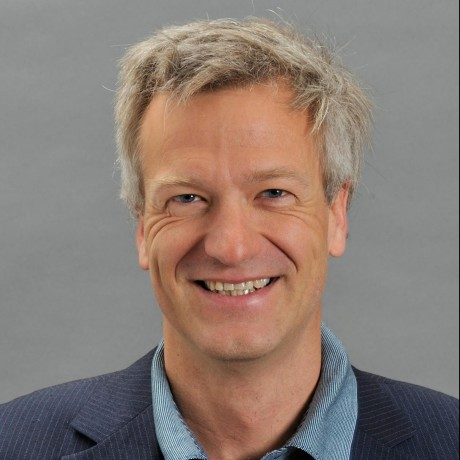
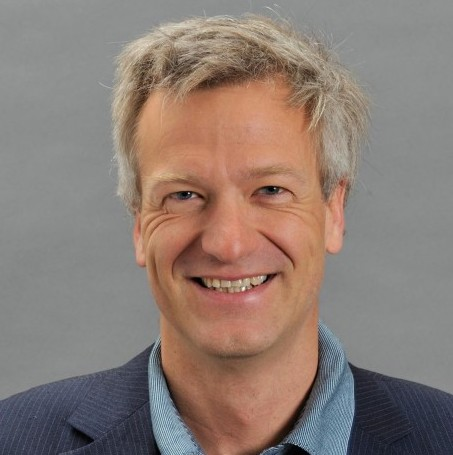
gave profile pics rounded borders; fixed highlight opacity

diff --git a/source/stylesheets/extra.css b/source/stylesheets/extra.css
@@ -80,7 +80,7 @@ a { transition: all 1s ease-in-out; }
 .md-content a { text-decoration: underline; }
 .md-content a:hover, .md-content a:focus { text-decoration: none; }
 a:hover { transition: all 0.5s;}
-.md-typeset hr { margin: 1em 0 !important; }
+.md-typeset hr { margin: 1em 0 !important; clear: both;}
 h1, h2, h3, h4, h5 {
   font-family: freight-sans-pro, sans-serif;
 }
@@ -235,7 +235,7 @@ h1 {
 }
 /*block for highlighting content or CTA*/
 .highlight {
-  background-color: hsla(67, 69%, 51%, 0.25);
+  background-color: hsla(67, 69%, 51%, 0.05);
   /* background-color: var(--md-accent-fg-color); */
   border: 2px solid var(--md-accent-fg-color);
   border-radius: 6px;
@@ -420,6 +420,8 @@ h1 {
   max-width: 150px !important;
   margin-right: 1em;
   margin-bottom: 1em;
+  border: 5px solid #c3bfba;
+  border-radius: 10px; 
   clear: both;
 }
 

diff --git a/source/presenters.md b/source/presenters.md
@@ -8,31 +8,25 @@ We are very pleased to be working with the following key participants to bring t
 <!-- ![Arwa Alnajashi](../assets/profile/arwa.jpeg){.mkd-img-left .mkd-img-profile alt='Arwa Alnajashi Photo'} -->
 
 Data Scientist, Saudi Aramco.
-Arw's' passion lies in creating an empowered and inclusive digital future, ensuring that advancements in technology pave the way for greater accessibility and efficiency across industries. Currently, she applies data science to automate critical operations in the oil and gas industry. [Arwa's LinkedIn Page](https://sa.linkedin.com/in/arwa-alnajashi-84b1541a2?trk=people-guest_people_search-card){target="_blank"}
+
+Arwa's passion lies in creating an empowered and inclusive digital future, ensuring that advancements in technology pave the way for greater accessibility and efficiency across industries. Currently, she applies data science to automate critical operations in the oil and gas industry. [Arwa's LinkedIn Page](https://sa.linkedin.com/in/arwa-alnajashi-84b1541a2?trk=people-guest_people_search-card){target="_blank"}
 
 ---
 
 ### Sina Bahram
 
-![Sina Bahram](../assets/profile/sina.jpeg){.mkd-img-left .mkd-img-profile alt='Sina Bahram Photo'}
+![Sina Bahram](../assets/profile/sina.jpeg){.mkd-img-left .mkd-img-profile alt='Headshot of Sina Bahram sitting  on a sofa holding an iPad'}
+
 Founder, Prime Access Computing.
 
 Sina is a blind computer scientist, consultant, entrepreneur, and researcher. He brings expertise in inclusive design  in an operationally scalable and sustainable manner, be it a website, a mix-reality experience, or an entire museum.
 
 ---
 
-### Shamsi Brinn
-
-![Shamsi Brinn](../assets/profile/shamsi.jpeg){.mkd-img-left .mkd-img-profile alt='Shamsi Brinn Photo'}
-UX Manager, arXiv. 
-
-To advance accessibility at arXiv, Shamsi brings the experiences of researchers with disabilities to the forefront of organizational planning, and championed the research, analysis, and production of arXiv's [Dec. 2022 report on accessibility](https://info.arxiv.org/about/accessibility_research_report.html). She has also had the pleasure of organizing this forum and working with each of the wonderful participants above to bring it to life. Thank you for joining us! [Shamsi's LinkedIn Profile](https://www.linkedin.com/in/shamsi-brinn/){target="_blank"}
-
----
-
 ### Kim Bryant
 
-![Kim Bryant](../assets/profile/kim.jpeg){.mkd-img-left .mkd-img-profile alt='Kim Bryant Photo'}
+![Kim Bryant](../assets/profile/kim.jpeg){.mkd-img-left .mkd-img-profile alt='Headshot of Kim Bryant against a wooden wall'}
+
 Senior Staff Product Manager in Accessibility, Mozilla; Co-Founder of Disability@Mozilla, an internal employee resource group.
 
 Kim brings expertise in interprating accessibility through the lens of social sciences and empowering people of disabilities by giving them customizable accessibility toolboxes. [Kim's LinkedIn](https://www.linkedin.com/in/kimbryant/){target="_blank"}
@@ -41,7 +35,8 @@ Kim brings expertise in interprating accessibility through the lens of social sc
 
 ### Michael Curran
 
-![Michael Curran](../assets/profile/michael.jpeg){.mkd-img-left .mkd-img-profile alt='Michael Curran Photo'}
+![Michael Curran](../assets/profile/michael.jpeg){.mkd-img-left .mkd-img-profile alt='Head of Michael Curran against a dark neutral background'}
+
 Co-Founder and Lead Developer, NV Access Limited (NVDA).
 
 Mick is the creator of the free and open source NVDA screen reading software, that has enabled more than 200,000 blind and vision impaired people worldwide to independently use computers. He brings expertise in software accessibility standards, software APIs, and best practice approaches to functional usability. [Mick's LinkedIn Profile](https://au.linkedin.com/in/mdcurran){target="_blank"}
@@ -50,7 +45,8 @@ Mick is the creator of the free and open source NVDA screen reading software, th
 
 ### Dr. Wanda Diaz-Merced
 
-![Wanda Diaz-Merced](../assets/profile/wanda.jpeg){.mkd-img-left .mkd-img-profile alt='Wanda Diaz-Merced Photo'}
+![Wanda Diaz-Merced](../assets/profile/wanda.jpeg){.mkd-img-left .mkd-img-profile alt='Photo of Wanda Diaz-Merced presenting on the stage with a microphone'}
+
 Program Lead, European Gravitational Wave Observatory; Director, Arecibo Observatory.
 
 Wanda is an astronomer and the developer of the technique, sonification, that converts astrophysical data into audible sound. As someone who lost her eyesight since teenage years, she is a leader in increasing equality of access to astronomy. [Wanda's Profile](){target="_blank"}
@@ -60,6 +56,7 @@ Wanda is an astronomer and the developer of the technique, sonification, that co
 ### Hannah DeFelice
 
 <!-- ![Hannah DeFelice](../assets/profile/hannah.jpeg){.mkd-img-left .mkd-img-profile alt='Hannah DeFelice Photo'} -->
+
 Master's Student in Environmental Science, Rochester Institute of Technology.
 
 Hannah is a blinddeaf environmental science researcher. She is currently working on the NSF-funded Multiscale RECIPES Project for Sustainable Food System.
@@ -68,7 +65,8 @@ Hannah is a blinddeaf environmental science researcher. She is currently working
 
 ### Dr. Solange Maria dos Santos
 
-![Solange dos Santos](../assets/profile/solange.jpeg){.mkd-img-left .mkd-img-profile alt='Solange dos Santos Photo'}
+![Solange dos Santos](../assets/profile/solange.jpeg){.mkd-img-left .mkd-img-profile alt='Candid photo of Solange dos Santos smiling in a crowd'}
+
 Online Submission & Preprints Coordinator, SciELO.
 
 Solange brings in scientific communication expertise in diverse geographical contexts, such as Argentina, Bolivia, Colombia, Mexico, Paraguay, and South Africa. Solange advocates for accessibility in open archive space as well as academic journals. [Solange's LinkedIn Profile](https://www.linkedin.com/in/solangemariasantos/?originalSubdomain=br){target="_blank"}
@@ -77,7 +75,8 @@ Solange brings in scientific communication expertise in diverse geographical con
 
 ### Dr. Scott Fleming
 
-![Scott Fleming](../assets/profile/scott.jpeg){.mkd-img-left .mkd-img-profile alt='Scott Fleming Photo'}
+![Scott Fleming](../assets/profile/scott.jpeg){.mkd-img-left .mkd-img-profile alt='Headshot of Scott Fleming in a Boston Red Sox cap smiling against a grey background'}
+
 Archive Scientist at the Mikulski Archive for Space Telescopes (MAST), Space Telescope Science Institute (STSI). 
 
 Scott is interested in open source software development, and new science that is enabled with archival or cross-mission data. [Scott's STSI Profile](https://www.stsci.edu/stsci-research/research-directory/scott-fleming){target="_blank"}
@@ -86,7 +85,8 @@ Scott is interested in open source software development, and new science that is
 
 ### Deyan Ginev
 
-![Deyan Ginev](../assets/profile/deyan.jpeg){.mkd-img-left .mkd-img-profile alt='Deyan Ginev Photo'}
+![Deyan Ginev](../assets/profile/deyan.jpeg){.mkd-img-left .mkd-img-profile alt='Headshot of Deyan Ginev outdoors with a river in the background'}
+
 Creator of ar5iv.org and LaTeXML Developer; W3C Math Working Group Member; Ph.D. candidate in hiding (do not disturb).
 
 Deyan's main focus is to enhance the representation of mathematical expressions in rendered research papers, improving their accessibility, computational semantics, and enabling further reuse in a broader class of applications. [Deyan's University Profile](https://kwarc.info/people/dginev/){target="_blank"}
@@ -94,7 +94,7 @@ Deyan's main focus is to enhance the representation of mathematical expressions 
 ---
 
 ### Dr. Jonathan Godfrey
-![Jonathan Godfrey](../assets/profile/jonathan.jpeg){.mkd-img-left .mkd-img-profile alt='Jonathan Godfrey Photo'}
+![Jonathan Godfrey](../assets/profile/jonathan.jpeg){.mkd-img-left .mkd-img-profile alt='Headshot of Jonathan Godfrey smiling in a suit'}
 
 Senior Lecturer in Statistics, School of Mathematical and Computational Sciences, Massey University.
 
@@ -103,7 +103,7 @@ Jonathan's research is focused on the needs of the thousands of blind people aro
 ---
 
 ### Ricardo Enrique Gonzalez
-![Ricardo Gonzalez](../assets/profile/ricardo.jpeg){.mkd-img-left .mkd-img-profile alt='Ricardo Gonzalez Photo'}
+![Ricardo Gonzalez](../assets/profile/ricardo.jpeg){.mkd-img-left .mkd-img-profile alt='Headshot of Ricardo Gonzalez against a clear grey background'}
 
 Ph.D. Candidate in Information Science, Cornell Tech.
 
@@ -113,7 +113,8 @@ Ricardo designs interactive systems that empower people of disabilities, particu
 
 ### Sarah Kane
 
-![Sarah Kane](../assets/profile/sarah.jpeg){.mkd-img-left .mkd-img-profile alt='Sarah Kane Photo'}
+![Sarah Kane](../assets/profile/sarah.jpeg){.mkd-img-left .mkd-img-profile alt='Headshot of Sarah Kane smiling in a forest'}
+
 Ph.D. Candidate in Astrophysics, Institute of Astronomy, Univeristy of Cambridge.
 
 For Sarah, her career as a researcher is intertwined with her work as a disability advocate. She was born legally blind and has a strong interest in the accessibility of science to people with disabilities. Her work includes usability testing for Astronify, a project of the Space Telescope Institute turning datasets into audio. [Sarah's LinkedIn Profile](https://uk.linkedin.com/in/sarah-kane-4a9414220){target="_blank"}
@@ -131,7 +132,8 @@ Tony is a machine learning scientist, a long-time supporter of arXiv, and a cont
 
 ### Alex Mendonça
 
-![Alex Mendonça](../assets/profile/alex.jpeg){.mkd-img-left .mkd-img-profile alt='Alex Mendonça Photo'}
+![Alex Mendonça](../assets/profile/alex.jpeg){.mkd-img-left .mkd-img-profile alt='Headshot of Alex Mendonça smiling in an indoor environment'}
+
 Production and Publishing Coordinator, SciELO.
 
 Alex brings expertise in organizational strategies in transitioning from indexed journals to open science, as well as the implementation of Diversity, Equity, Inclusion and Accessibility (DEIA) policies at SciELO. [Alex's LinkedIn Profile](https://www.linkedin.com/in/alex-mendon%C3%A7a/?originalSubdomain=br){target="_blank"}
@@ -140,7 +142,8 @@ Alex brings expertise in organizational strategies in transitioning from indexed
 
 ### Joshua Miele 
 
-![Joshua Miele ](../assets/profile/josh.jpeg){.mkd-img-left .mkd-img-profile alt='Joshua Miele Photo'}
+![Joshua Miele ](../assets/profile/josh.jpeg){.mkd-img-left .mkd-img-profile alt='Headshot of Joshua Miele smiling against a greenery'}
+
 Principal Accessibility Researcher, Amazon Lab126; 2021 MacArthur Foundation Fellow.
 
 Josh specializes in accessible technology design with previous research projects on tactile graphics and auditory displays. Additionally, he is an expert in effective giving and philanthropy in the accessible science space. 
@@ -149,7 +152,8 @@ Josh specializes in accessible technology design with previous research projects
 
 ### Camille Ouellette 
 
-![Camille Ouellette ](../assets/profile/camille.jpeg){.mkd-img-left .mkd-img-profile alt='Camille Ouellette Photo'}
+![Camille Ouellette ](../assets/profile/camille.jpeg){.mkd-img-left .mkd-img-profile alt='Headshot of Camille Ouellette in a suit against a clear grey background'}
+
 Senior Lecturer in Biology and Deaf Hub Affliate, Rochester Institute of Technology.
 
 Camille brings expertise in supporting deaf and hard of hearing (DHH) researchers throughout their academic career, and empowers their development by providing and connecting them to the right resources they need. [Camille's Faculty Profile](https://www.rit.edu/directory/ceonts-camille-ouellette){target="_blank"}
@@ -158,7 +162,8 @@ Camille brings expertise in supporting deaf and hard of hearing (DHH) researcher
 
 ### Venkatesh Potluri
 
-![Venkatesh Potluri](../assets/profile/venkatesh.jpeg){.mkd-img-left .mkd-img-profile alt='Venkatesh Potluri Photo'}
+![Venkatesh Potluri](../assets/profile/venkatesh.jpeg){.mkd-img-left .mkd-img-profile alt='Headshot of Venkatesh Potluri against a white background'}
+
 Ph.D. Candidate in Computer Science and Engineering, University of Washington.
 
 Venkatesh examines accessibility barriers experienced by blind or visually impaired (BVI) developers participating in professional programming domains such as user interface design, data science, and physical computing. His work contributes real-world systems to improve developer tools and new interaction techniques. [Venkatesh's Homepage](https://venkateshpotluri.me/){target="_blank"}
@@ -167,7 +172,8 @@ Venkatesh examines accessibility barriers experienced by blind or visually impai
 
 ### Norbert Preining
 
-![Norbert Preining](../assets/profile/norbert.jpeg){.mkd-img-left .mkd-img-profile alt='Norbert Preining Photo'}
+![Norbert Preining](../assets/profile/norbert.jpeg){.mkd-img-left .mkd-img-profile alt='Headshot of Norbert Preining smiling against a grey background'}
+
 Principal Software Engineer, arXiv.
 
 As the author of TeXLive, Norbert brings leading expertise in TeX and LaTeX. [Norbert's Homepage](https://www.preining.info/){target="_blank"}
@@ -176,7 +182,8 @@ As the author of TeXLive, Norbert brings leading expertise in TeX and LaTeX. [No
 
 ### Dr. Thijs Jan Roumen
 
-![Thijs Roumen](../assets/profile/thijs.png){.mkd-img-left .mkd-img-profile alt='Thijs Roumen Photo'}
+![Thijs Roumen](../assets/profile/thijs.png){.mkd-img-left .mkd-img-profile alt='Headshot of Thijs Roumen against a grey background'}
+
 Assistant Professor of Information Science and Matter of Tech Lab, Cornell Tech.
 
 Thijs' research focus is digital fabrication, a nascent subfield of human-computer interaction (HCI). He aims to create a technological basis that allows designers and engineers to build on each other's work and enable personal fabrication relevant to everyone as opposed to the industrialists and hobbyists. [Thijs's Homepage](http://thijsroumen.eu/)
@@ -185,7 +192,8 @@ Thijs' research focus is digital fabrication, a nascent subfield of human-comput
 
 ### Dr. Ashley Shew
 
-![Ashley Shew](../assets/profile/ashley.png){.mkd-img-left .mkd-img-profile alt='Ashley Shew Photo'}
+![Ashley Shew](../assets/profile/ashley.png){.mkd-img-left .mkd-img-profile alt='Headshot of Ashley Shew smiling outdoors on a lawn'}
+
 Associate Professor of Science, Technology, and Society, Virginia Tech.
 
 Ashley specializes in disability studies and technology ethics. She is the author of several critically acclaimed books, including Against Technoableism, Animal Constructions, and Technological Knowledge and Spaces for the Future (coedited). [Ashley's Faculty Page](https://liberalarts.vt.edu/departments-and-schools/department-of-science-technology-and-society/faculty/ashley-shew.html){target="_blank"}
@@ -194,11 +202,20 @@ Ashley specializes in disability studies and technology ethics. She is the autho
 
 ### Dr. Patrick Smyth
 
-![Patrick Smyth](../assets/profile/patrick.jpeg){.mkd-img-left .mkd-img-profile alt='Patrick Smyth Photo'}
+![Patrick Smyth](../assets/profile/patrick.jpeg){.mkd-img-left .mkd-img-profile alt='Headshot of Patrick Smyth against a clear background'}
+
 Chief Learner, Iota School; Staff Developer Relations Engineer, Chainguard.
 
 Patrick is a blind hacker and programmer whose work focuses on citizen technology, critical infrastructure, accessibility, and technical pedagogy. [Patrick's Homepage](https://smythp.com/index.html){target="_blank"}
 
+<br>
+# Facilitator bio
+### Shamsi Brinn
+![Shamsi Brinn](../assets/profile/shamsi.jpeg){.mkd-img-left .mkd-img-profile alt='Headshot of Shamsi Brinn against a greenery'}
+
+UX Manager, arXiv. 
+
+To advance accessibility at arXiv, Shamsi brings the experiences of researchers with disabilities to the forefront of organizational planning, and championed the research, analysis, and production of arXiv's [Dec. 2022 report on accessibility](https://info.arxiv.org/about/accessibility_research_report.html). She has also had the pleasure of organizing this forum and working with each of the wonderful participants above to bring it to life. Thank you for joining us! [Shamsi's LinkedIn Profile](https://www.linkedin.com/in/shamsi-brinn/){target="_blank"}
 
 
 ![No Giscus](){#no-giscus}
